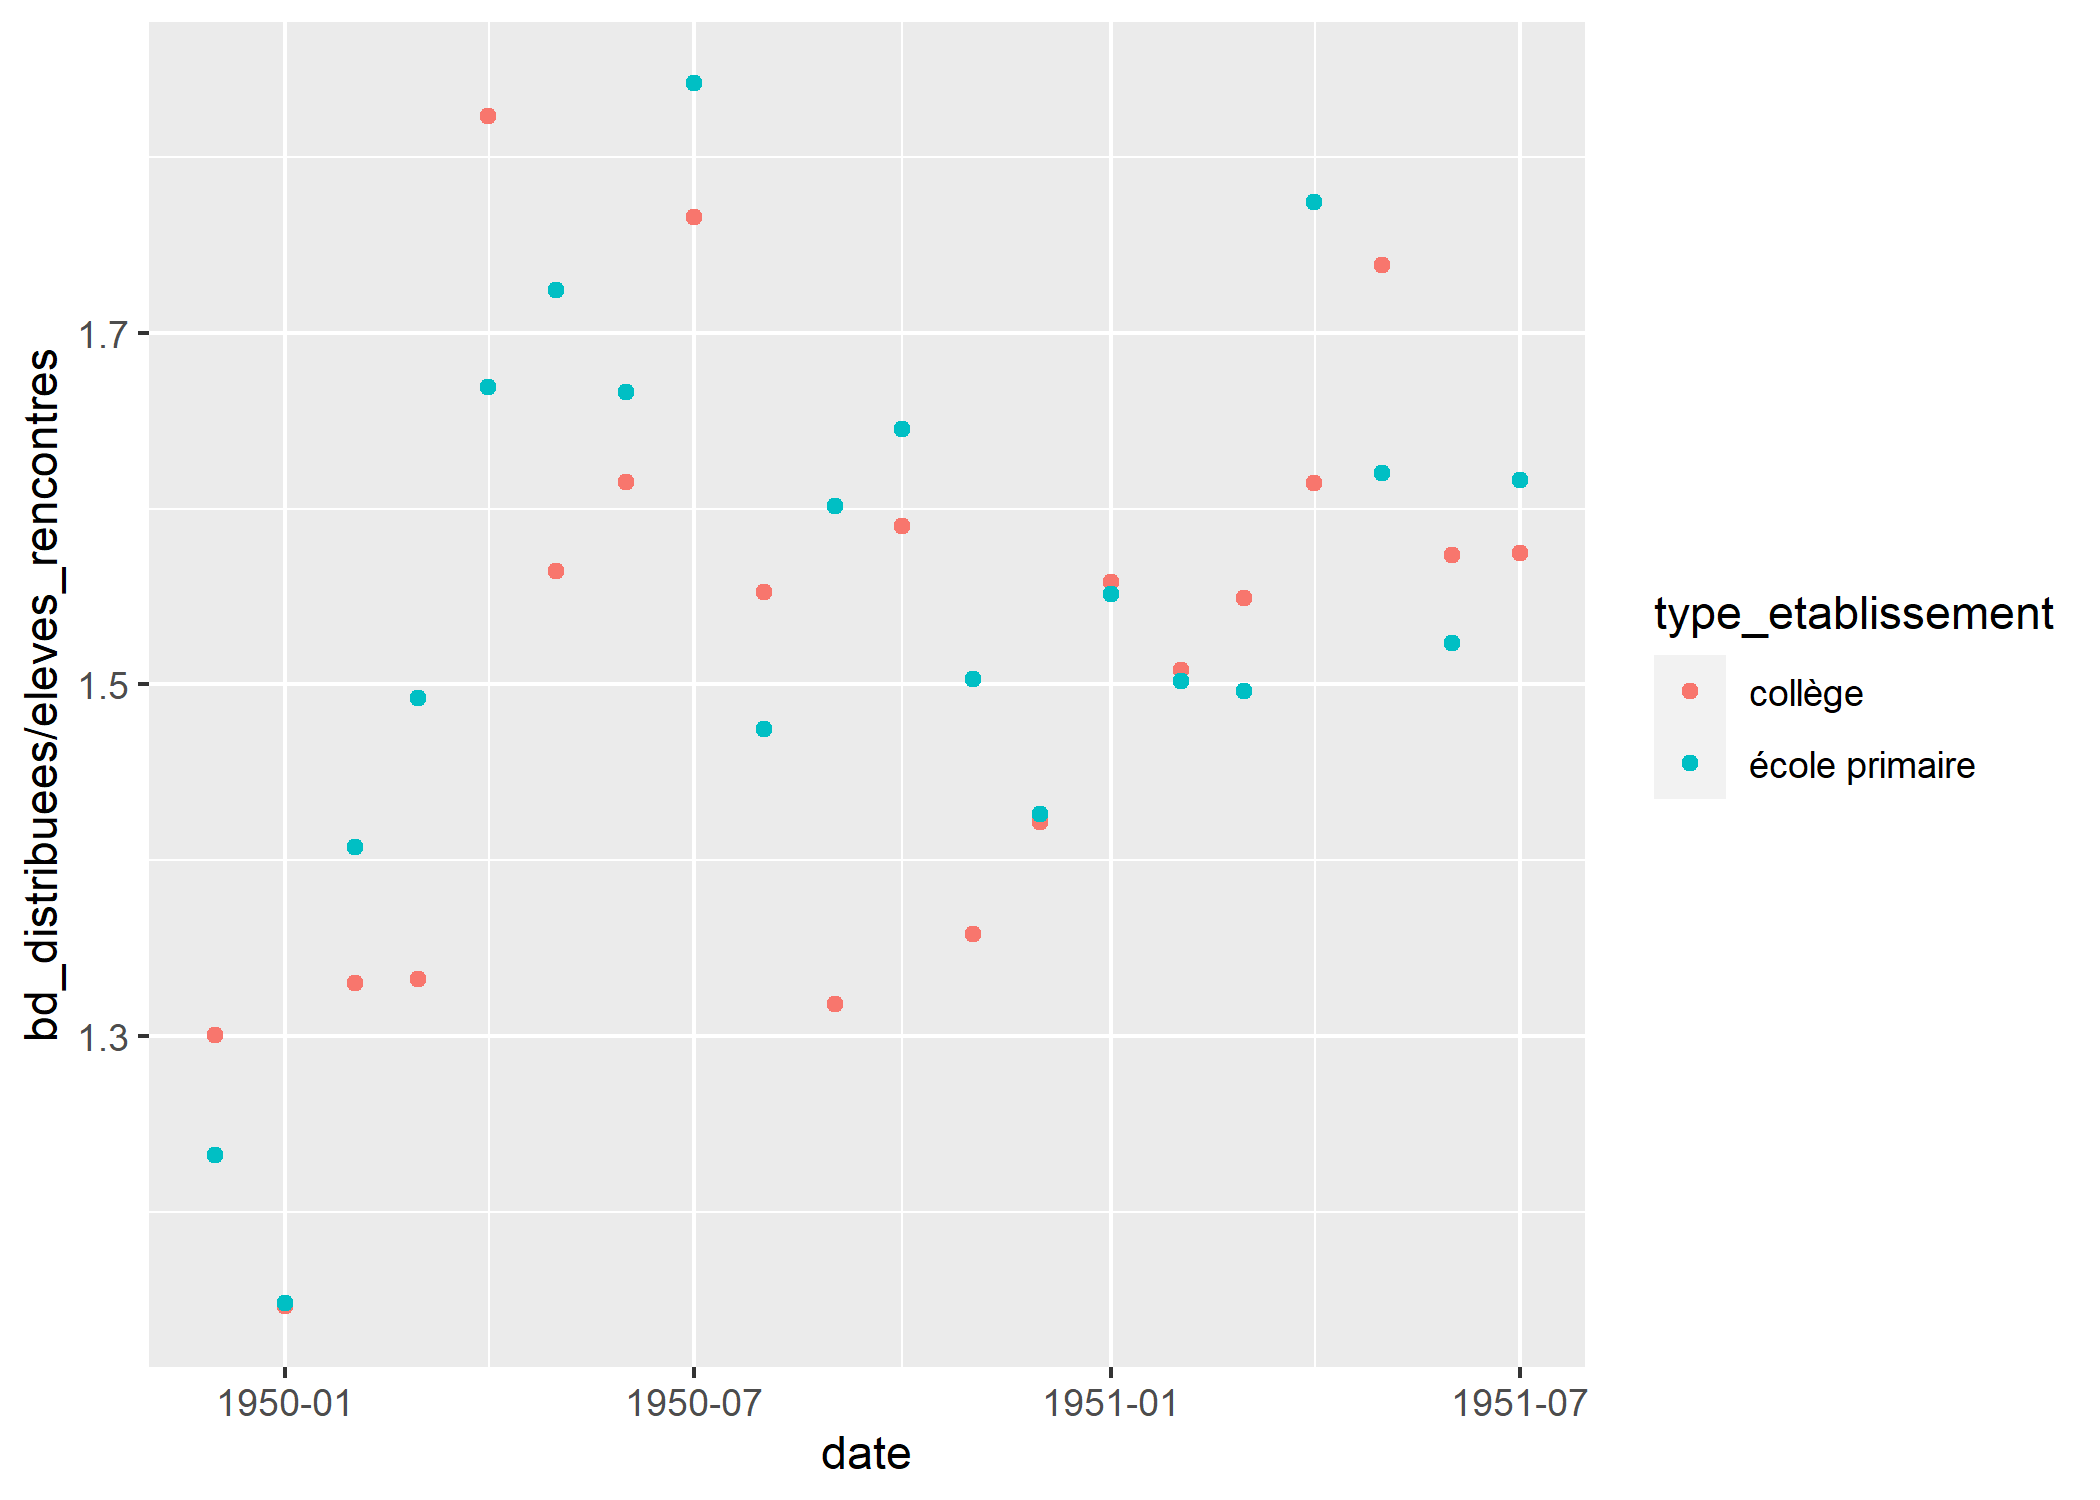
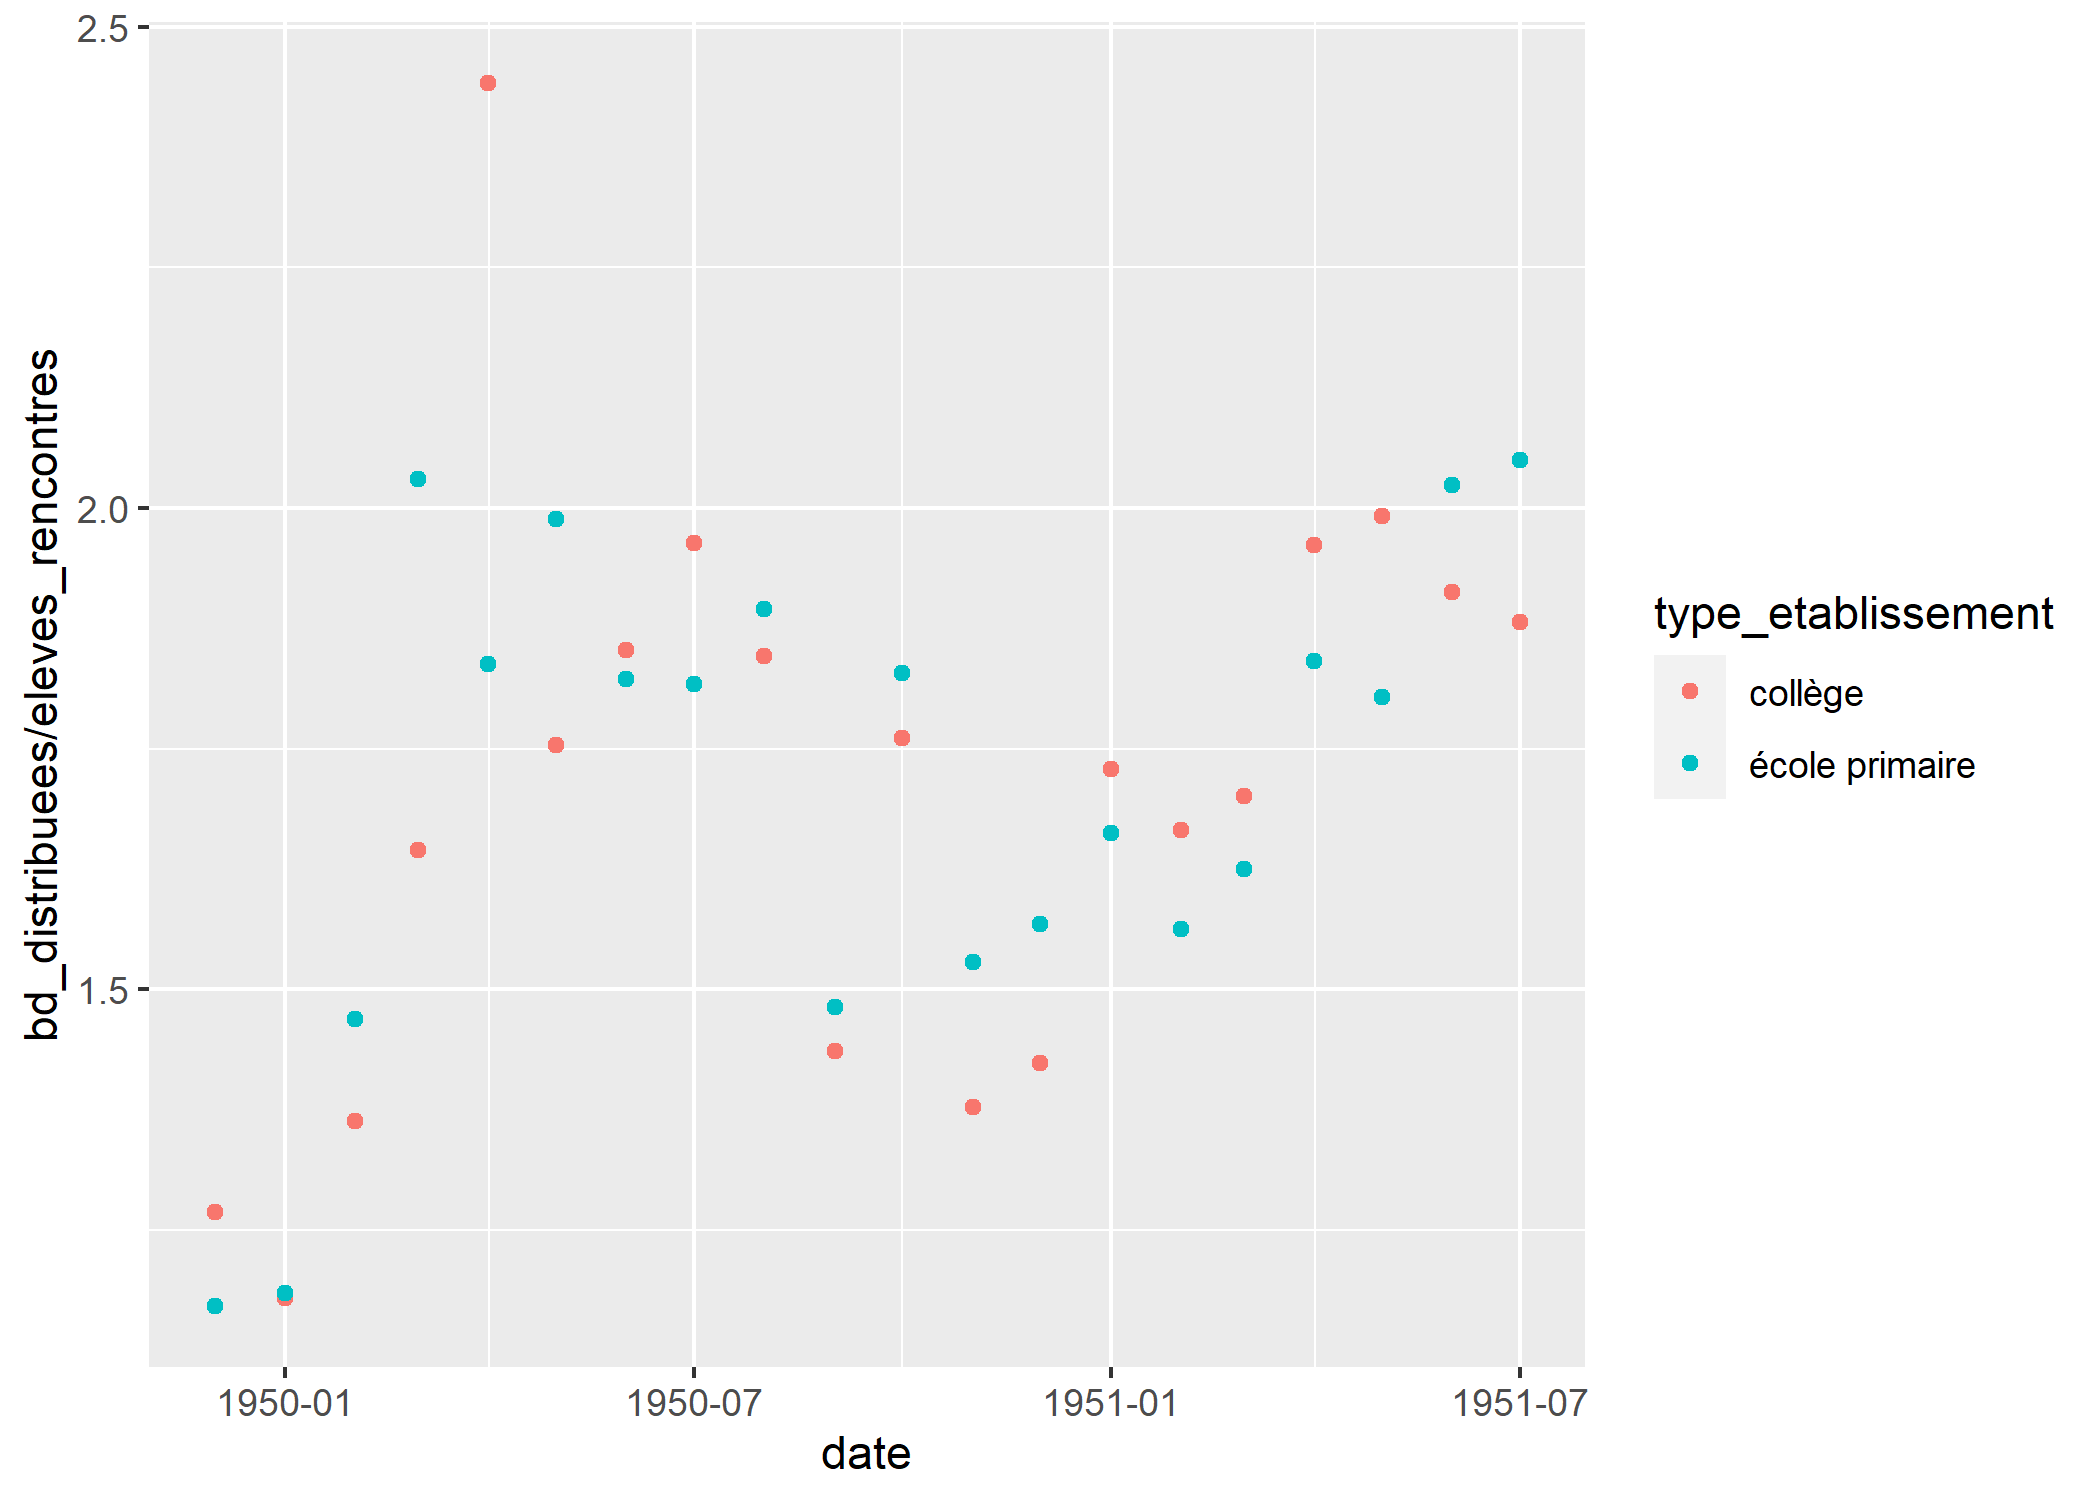
corrections

diff --git a/exemples-graphiques-avances.html b/exemples-graphiques-avances.html
@@ -1128,14 +1128,20 @@ for &#39;x&#39;, which will replace the existing scale.</code></pre>
 <p>Comme on le voit sur la figure précédente, si l’on représente directement cet indicateur, nous obtenons plusieurs points pour chaque date. En effet, nous avons plusieurs observations par date et nous obtenons donc un point pour chacune de ces observations. Nous souhaiterions avoir la moyenne pour chaque date. Cela est possible en ayant recours à <code data-pkg="GGally">stat_weighted_mean</code> de l’extension <code class="pkg">GGally</code>. Pour que le calcul soit correct, il faut réaliser une moyenne pondérée par le dénominateur, à savoir ici le nombre d’élèves.</p>
 <div class="sourceCode" id="cb48"><pre class="sourceCode r"><code class="sourceCode r"><span id="cb48-1"><a href="#cb48-1" aria-hidden="true" tabindex="-1"></a><span class="fu">library</span>(GGally)</span>
 <span id="cb48-2"><a href="#cb48-2" aria-hidden="true" tabindex="-1"></a><span class="fu">ggplot</span>(bd) <span class="sc">+</span></span>
-<span id="cb48-3"><a href="#cb48-3" aria-hidden="true" tabindex="-1"></a>  <span class="fu">aes</span>(<span class="at">x =</span> date, <span class="at">y =</span> bd_distribuees <span class="sc">/</span> eleves_rencontres, <span class="at">colour =</span> type_etablissement) <span class="sc">+</span></span>
-<span id="cb48-4"><a href="#cb48-4" aria-hidden="true" tabindex="-1"></a>  <span class="fu">geom_point</span>(<span class="at">stat =</span> <span class="st">&quot;weighted_mean&quot;</span>)</span></code></pre></div>
+<span id="cb48-3"><a href="#cb48-3" aria-hidden="true" tabindex="-1"></a>  <span class="fu">aes</span>(</span>
+<span id="cb48-4"><a href="#cb48-4" aria-hidden="true" tabindex="-1"></a>    <span class="at">x =</span> date, <span class="at">y =</span> bd_distribuees <span class="sc">/</span> eleves_rencontres,</span>
+<span id="cb48-5"><a href="#cb48-5" aria-hidden="true" tabindex="-1"></a>    <span class="at">weight =</span> eleves_rencontres, <span class="at">colour =</span> type_etablissement</span>
+<span id="cb48-6"><a href="#cb48-6" aria-hidden="true" tabindex="-1"></a>  ) <span class="sc">+</span></span>
+<span id="cb48-7"><a href="#cb48-7" aria-hidden="true" tabindex="-1"></a>  <span class="fu">geom_point</span>(<span class="at">stat =</span> <span class="st">&quot;weighted_mean&quot;</span>)</span></code></pre></div>
 <p><img src="graphs/exemples-graphiques-avances/unnamed-chunk-42-1.png" width="1050" /></p>
 <p>Le graphique sera plus lisible si nous représentons des lignes.</p>
 <div class="sourceCode" id="cb49"><pre class="sourceCode r"><code class="sourceCode r"><span id="cb49-1"><a href="#cb49-1" aria-hidden="true" tabindex="-1"></a><span class="fu">library</span>(GGally)</span>
 <span id="cb49-2"><a href="#cb49-2" aria-hidden="true" tabindex="-1"></a><span class="fu">ggplot</span>(bd) <span class="sc">+</span></span>
-<span id="cb49-3"><a href="#cb49-3" aria-hidden="true" tabindex="-1"></a>  <span class="fu">aes</span>(<span class="at">x =</span> date, <span class="at">y =</span> bd_distribuees <span class="sc">/</span> eleves_rencontres, <span class="at">colour =</span> type_etablissement) <span class="sc">+</span></span>
-<span id="cb49-4"><a href="#cb49-4" aria-hidden="true" tabindex="-1"></a>  <span class="fu">geom_line</span>(<span class="at">stat =</span> <span class="st">&quot;weighted_mean&quot;</span>)</span></code></pre></div>
+<span id="cb49-3"><a href="#cb49-3" aria-hidden="true" tabindex="-1"></a>  <span class="fu">aes</span>(</span>
+<span id="cb49-4"><a href="#cb49-4" aria-hidden="true" tabindex="-1"></a>    <span class="at">x =</span> date, <span class="at">y =</span> bd_distribuees <span class="sc">/</span> eleves_rencontres,</span>
+<span id="cb49-5"><a href="#cb49-5" aria-hidden="true" tabindex="-1"></a>    <span class="at">weight =</span> eleves_rencontres, <span class="at">colour =</span> type_etablissement</span>
+<span id="cb49-6"><a href="#cb49-6" aria-hidden="true" tabindex="-1"></a>  ) <span class="sc">+</span></span>
+<span id="cb49-7"><a href="#cb49-7" aria-hidden="true" tabindex="-1"></a>  <span class="fu">geom_line</span>(<span class="at">stat =</span> <span class="st">&quot;weighted_mean&quot;</span>)</span></code></pre></div>
 <p><img src="graphs/exemples-graphiques-avances/unnamed-chunk-43-1.png" width="1050" /></p>
 <p>Pour améliorer la comparaison, il serait pertinent d’ajouter les intervalles de confiance sur le graphique. Cela peut être réalisé par exemple avec des rubans de couleur. Mais pour cela, il va falloir avoir recours à quelques astuces pour permettre le calcul de ces intervalles de confiance à la volée.</p>
 <p>Tout d’abord, pour calculer l’intervalle de confiance d’un ratio de nombres entiers, nous pouvons utiliser un <dfn>test de Poisson</dfn><dfn data-index="Poisson, test"></dfn> avec <code data-pkg="stats">poisson.test</code> auquel nous devons transmettre le numérateur et le dénominateur. Par exemple, pour 48 bandes dessinées distribuées à 27 élèves :</p>
